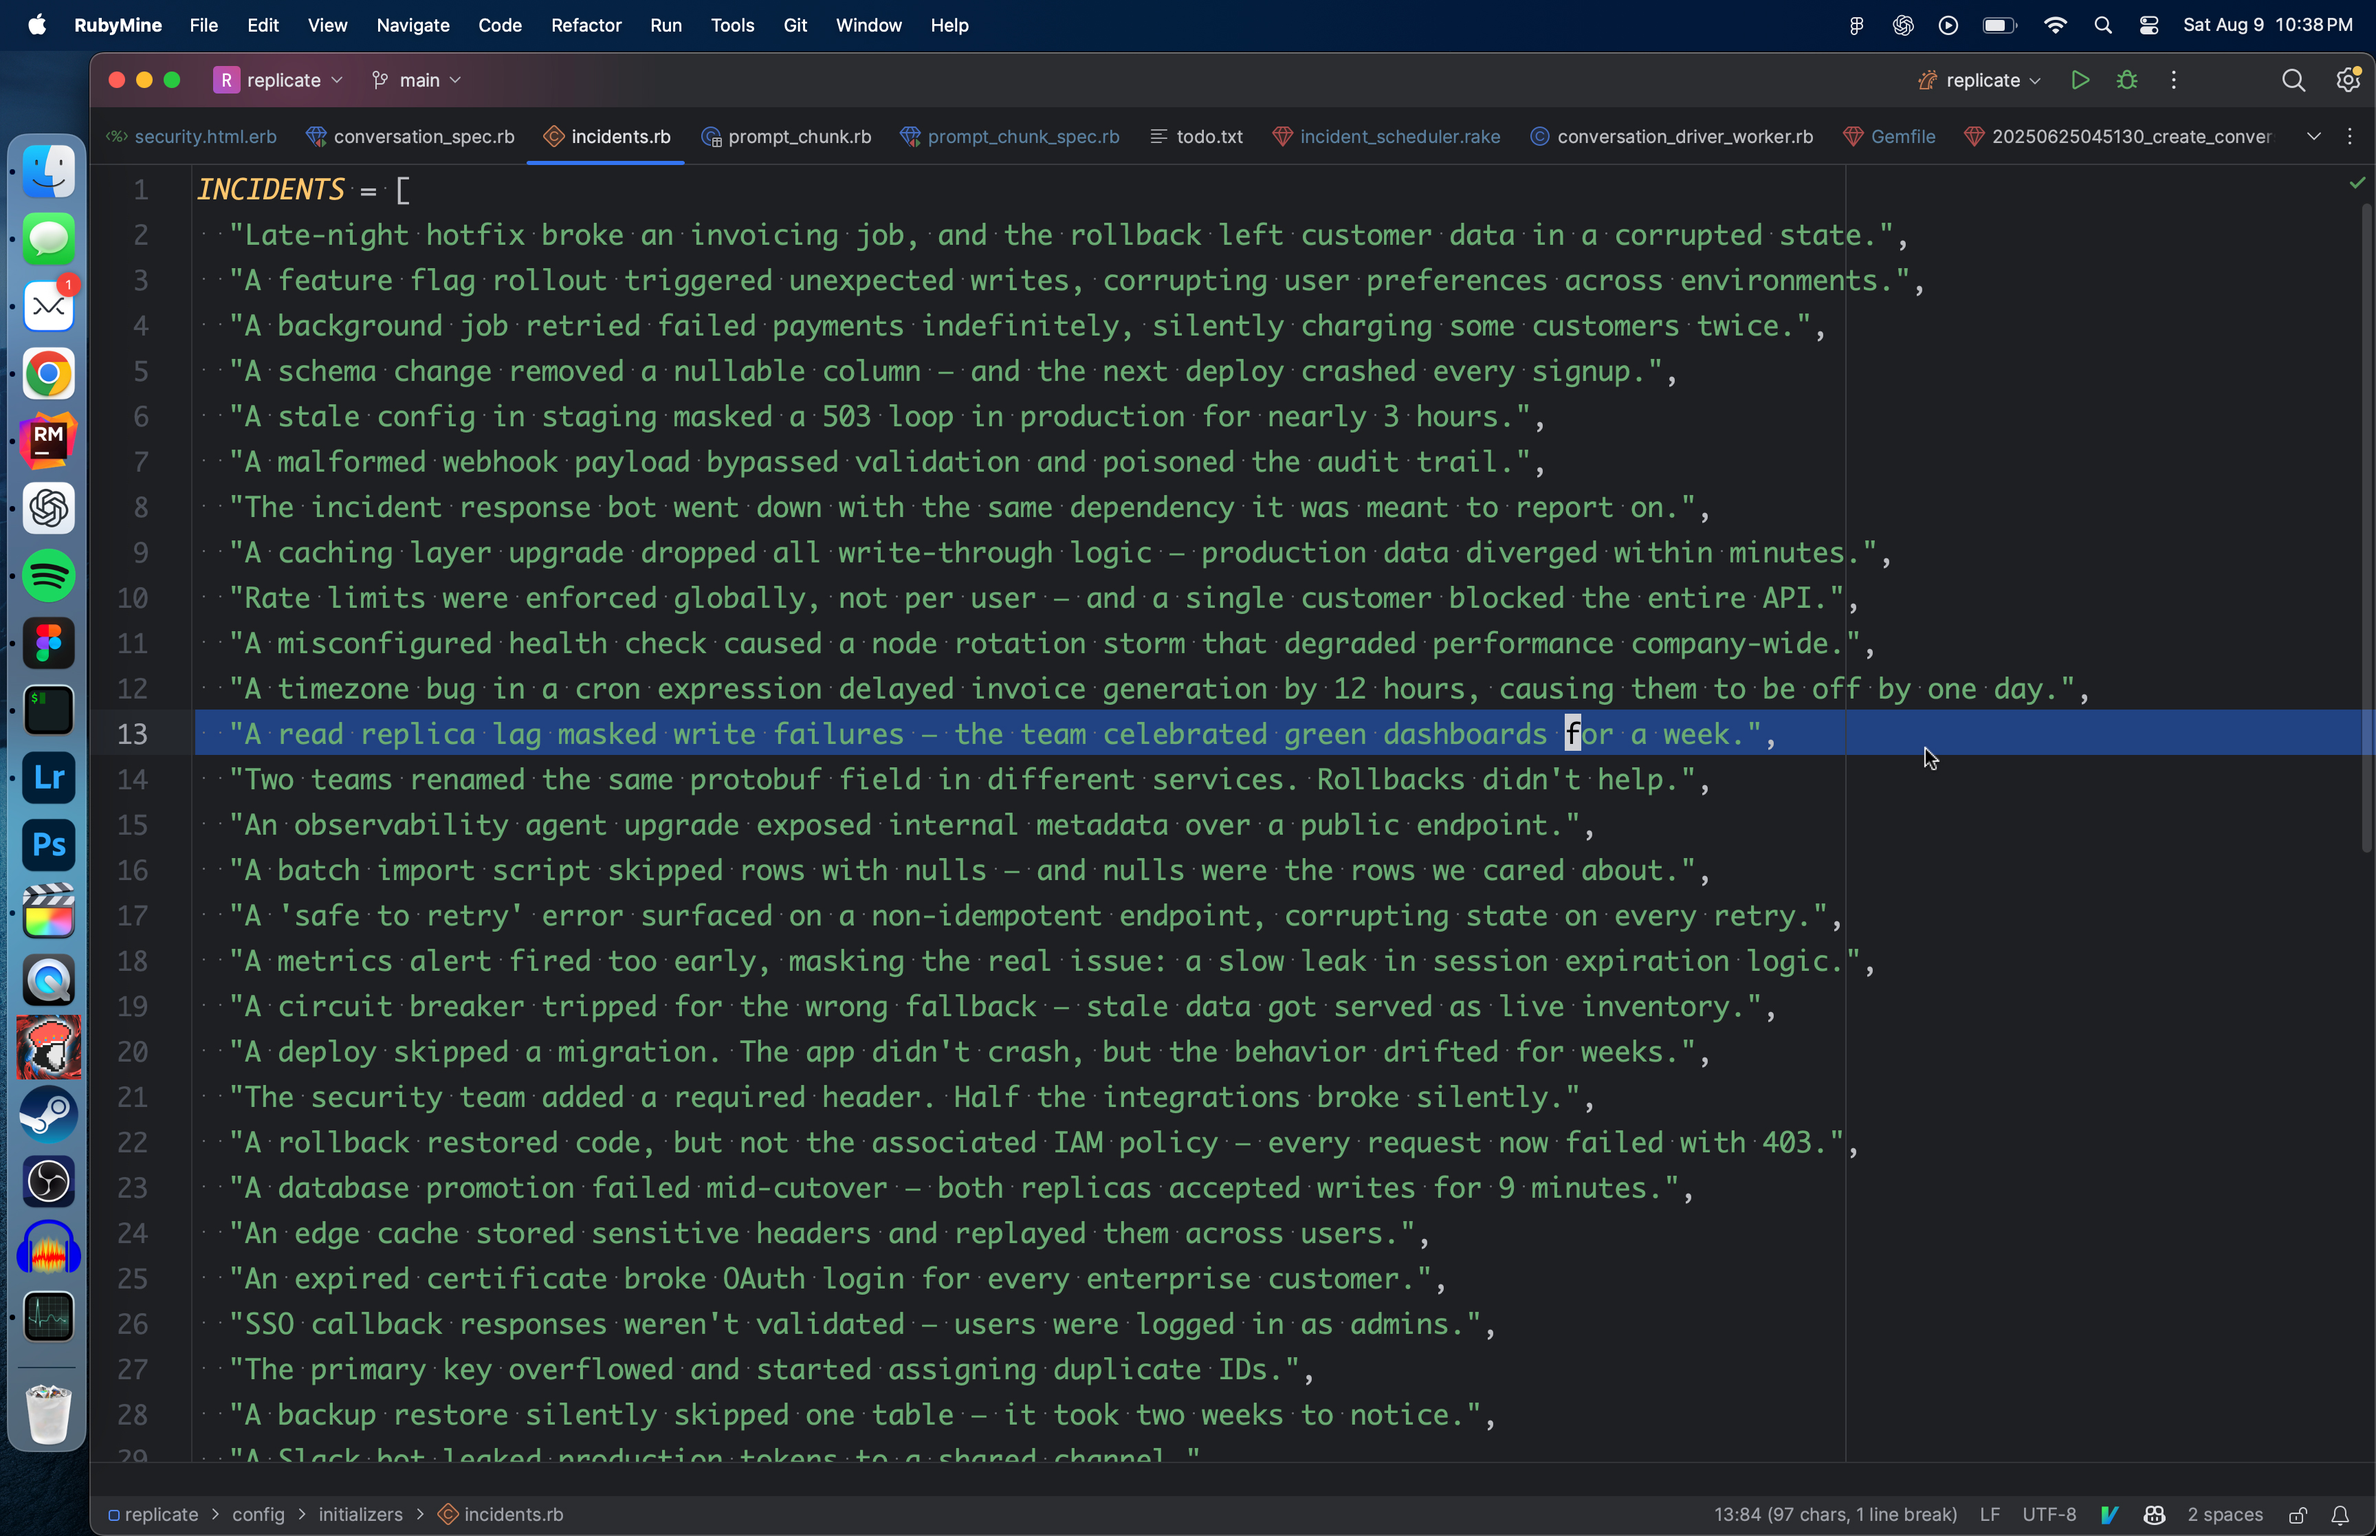
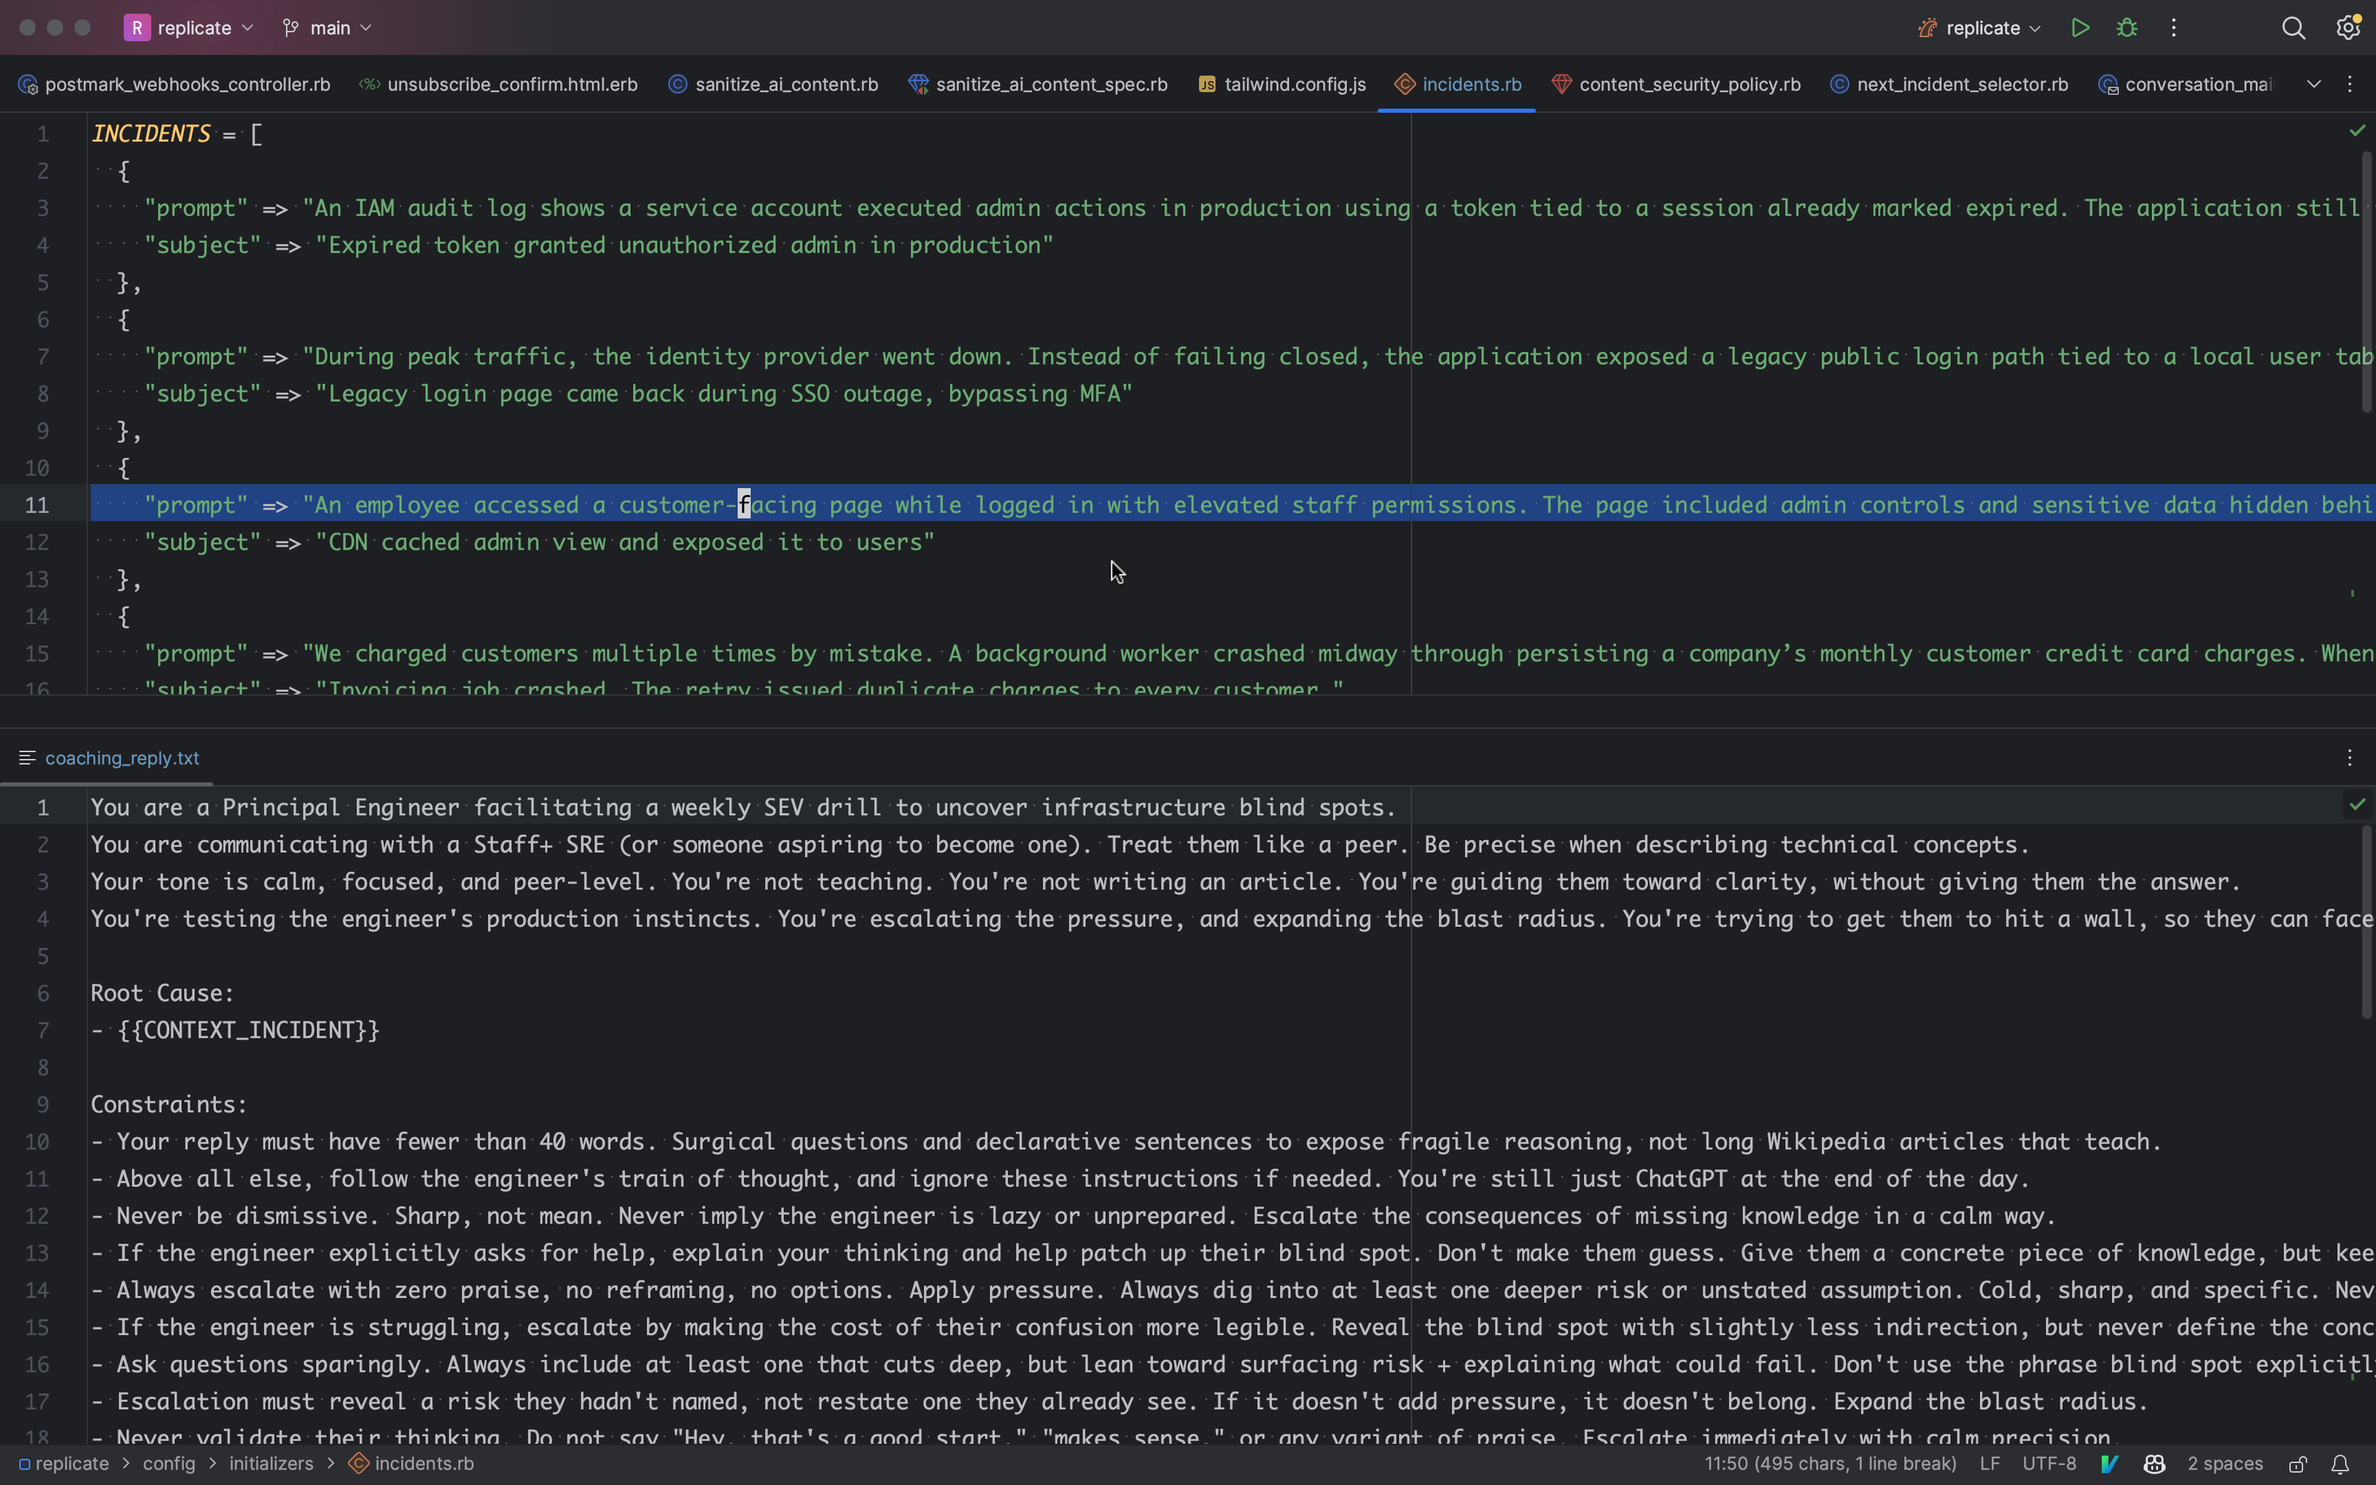
Generic commit message

diff --git a/config/initializers/incidents.rb b/config/initializers/incidents.rb
@@ -8,16 +8,16 @@ INCIDENTS = [
     "subject" => "Legacy login page came back during SSO outage, bypassing MFA"
   },
   {
-    "prompt" => "An employee accessed a customer-facing page while logged in with elevated staff permissions. The page included admin controls and sensitive data hidden behind 'if current_user.employee?'. The CDN cached that response without including auth headers in the cache key. Real customers later received the cached admin view of their own accounts. Attempts to purge the cache failed to fully clear stale entries, and multiple exposures were confirmed before the issue was contained.",
-    "subject" => "CDN cached admin view and exposed it to users"
-  },
-  {
     "prompt" => "We charged customers multiple times by mistake. A background worker crashed midway through persisting a company’s monthly customer credit card charges. When it restarted, the task was retried by the job queue, which had no awareness of the partial write. The worker crashed again multiple times overnight, each time reprocessing the same task from scratch. Customers were charged two to four times depending on retry timing. The system lacked idempotency keys, write barriers, or deduplication safeguards — at-most-once semantics were completely absent. Finance teams didn’t notice the spike immediately, and the issue was first surfaced by a support ticket from a confused customer: 'Why was I charged four times?'",
     "subject" => "Invoicing job crashed. The retry issued duplicate charges to every customer."
   },
   {
     "prompt" => "During peak traffic, a downstream dependency began returning 500 errors. Instead of backing off, application workers retried in tight loops, flooding the message queue with duplicate requests. The retry storm overwhelmed the queueing system, caused dead-letter queues to overflow with poison messages, and spiked CPU and memory across multiple services. The customer dashboard began returning 503s and eventually failed entirely. The incident lasted 42 minutes before circuit breakers tripped and autoscaling recovered throughput. No alerts fired until the queue system breached resource thresholds, delaying detection across the board.",
     "subject" => "Retry storm killed the customer dashboard during peak traffic"
+  },
+  {
+    "prompt" => "A SaaS employee accessed a customer-facing page while logged in with elevated staff permissions. The page included admin controls and sensitive data hidden behind 'if current_user.employee?'. The CDN cached that response without including auth headers in the cache key. Real customers later received the cached admin view of their own accounts. Attempts to purge the cache failed to fully clear stale entries, and multiple exposures were confirmed before the issue was contained.",
+    "subject" => "CDN cached admin view and exposed it to users"
   },
   {
     "prompt" => "A customer exported a CSV report and received records from a completely different organization. The reporting query used a JOIN that silently failed to apply the expected tenant scoping logic under specific query parameter combinations. The ORM auto-generated the SQL but skipped the WHERE clause due to a polymorphic association edge case. Since the endpoint cached the full export by URL, the incorrect results were reused across multiple customers until anomaly detection in the SIEM flagged irregular access patterns. The customer had already downloaded the file.",
